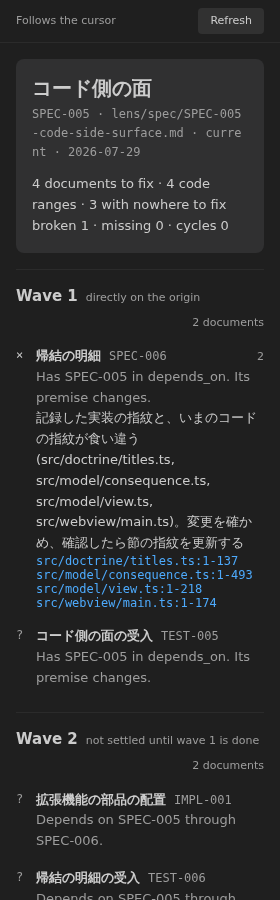
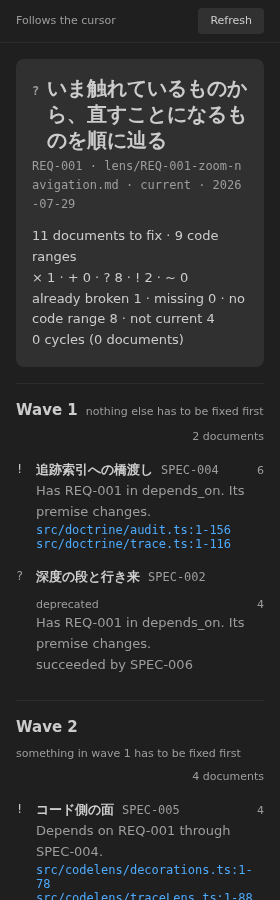
記号ごとと事実ごとが食い違う理由を、要約から脚注へ移す
非現行を足したことで要約の三行目が長くなり、280px で要約だけで六行を
占めた。数そのものが読みにくい（DESIGN.md 9-4）。

説明は脚注へ置く。「右端の数が何を数えたものか」を脚注で言うのと同じ
扱いである。そして食い違っている回だけ出す——一致している画面に置くと
説明だけが浮く（SPEC-006 制約）。

README の写真を撮り直した。7/29 のもので、CHANGE-009 で捨てた
titles.ts がまだ写っていた。要約の形も四行前の版だった。起点を
REQ-001 に取り、11 行のうち 4 行だけが deprecated と言い、要約が
「not current 4」と言う画面にした。写真が主張の証拠になっている。

潰しの道具が、始めに「何を検めているか」を言うようにした。この道具は
commit を潰すので、未コミットの変更が在れば緑は手元の版についての
緑ではない。実際そうなった——新しい五行を足して未コミットのまま回し、
「対象不明」が出るまで古い版を検めていることに気づかなかった。
由来書きには出ていたが、それでは 20 分遅い（ADR-017）。

diff --git a/src/model/view.ts b/src/model/view.ts
@@ -33,8 +33,8 @@ export interface ViewStrings {
   readonly summaryFacts: string;
   /** 現行でない行の本数。判じられた回だけ出る。`非現行 {0}` */
   readonly summaryFactNotCurrent: string;
-  /** 事実の行の末尾に付ける注記。記号の排他と数の違いを言う */
-  readonly summaryFactsNote: string;
+  /** 記号ごとの数と事実ごとの数が食い違う理由。脚注に置く */
+  readonly footHeaviest: string;
   /** `循環 {0} 本（{1} 文書）` */
   readonly summaryCycles: string;
   /** `第 {0} 波` */
@@ -254,7 +254,7 @@ export function buildView(
       ...(s.facts.notCurrent === null
         ? []
         : [fill(strings.summaryFactNotCurrent, String(s.facts.notCurrent))]),
-    ].join(" · ") + strings.summaryFactsNote,
+    ].join(" · "),
     // 循環は文書の内数ではないので、本数と文書数を分けて言う。
     fill(strings.summaryCycles, String(s.cycles), String(s.inCycle)),
   ].join("\n");
@@ -286,6 +286,19 @@ export function buildView(
   // 右端の数は説明の無い記号である。説明しないなら出してはいけない。
   if (consequence.waves.some((w) => w.rows.some((r) => r.behind > 0))) {
     footnotes.push(strings.footBehind);
+  }
+  // 記号ごとの数と事実ごとの数が食い違う理由を言う。要約の行に括弧で足すと、
+  // 280px で要約が六行になり、数そのものが読みにくくなる（DESIGN.md 9-4）。
+  // 説明は脚注へ置く。「右端の数が何か」を脚注で言うのと同じ扱いである。
+  //
+  // **実際に食い違っている回だけ出す。** 一致している画面に置くと、説明だけが浮く
+  // （SPEC-006 制約。右端の数が一つも無いときにその脚注を出さないのと同じ）。
+  if (
+    s.facts.broken !== s.bySymbol.broken ||
+    s.facts.missing !== s.bySymbol.missing ||
+    s.facts.noRange !== s.bySymbol.nowhere
+  ) {
+    footnotes.push(strings.footHeaviest);
   }
   if (context.titlesMissing) footnotes.push(strings.footNoTitles);
   footnotes.push(

diff --git a/src/l10n.ts b/src/l10n.ts
@@ -115,7 +115,7 @@ export function viewStrings(): ViewStrings {
       "{0}", "{1}", "{2}",
     ),
     summaryFactNotCurrent: t("not current {0}", "{0}"),
-    summaryFactsNote: t(" (a row shows only its heaviest symbol)"),
+
     summaryCycles: t("{0} cycles ({1} documents)", "{0}", "{1}"),
     waveHeading: t("Wave {0}", "{0}"),
     waveCount: t("{0} documents", "{0}"),
@@ -151,6 +151,9 @@ export function viewStrings(): ViewStrings {
     footAuditNever: t("Upstream docs-audit has not run yet"),
     footNoTitles: t("Some titles could not be read; those rows show the id instead"),
     footBehind: t("The number on the right of a row is how many others it settles once fixed"),
+    footHeaviest: t(
+      "A row shows only its heaviest symbol, so the per-symbol counts and the per-fact counts differ",
+    ),
     rowSucceeds: t("succeeded by {0}", "{0}"),
     cycleNote: t("{0} cycles: those documents have no wave until the cycle is broken", "{0}"),
     legendBroken: t("× broken"),

diff --git a/src/test/consequence.test.ts b/src/test/consequence.test.ts
@@ -634,7 +634,8 @@ function strings(): Parameters<typeof buildView>[2] {
     summarySymbols: "× {0} / + {1} / ? {2} / ! {3} / ~ {4}",
     summaryFacts: "壊れている {0} / 足りない {1} / 範囲無し {2}",
     summaryFactNotCurrent: "非現行 {0}",
-    summaryFactsNote: "（注記）",
+    footHeaviest: "行には最も重い記号だけが出る",
+
     summaryCycles: "循環 {0} 本（{1} 文書）",
     waveHeading: "第 {0} 波",
     waveCount: "{0} 文書",

diff --git a/README.md b/README.md
@@ -22,43 +22,57 @@ That is the **origin**. You select nothing; the screen follows the cursor.
 ```
 Follows the cursor                                                   [Refresh]
 
-  コード側の面
-  SPEC-005 · lens/spec/SPEC-005-code-side-surface.md · current · 2026-07-29
+  ? いま触れているものから、直すことになるものを順に辿る
+    REQ-001 · lens/REQ-001-zoom-navigation.md · current · 2026-07-29
 
-  4 documents to fix · 4 code ranges · 3 with nowhere to fix
-  broken 1 · missing 0 · cycles 0
+    11 documents to fix · 9 code ranges
+    × 0 · + 0 · ? 8 · ! 3 · ~ 0
+    already broken 0 · missing 0 · no code range 8 · not current 4
+    0 cycles (0 documents)
 
-  Wave 1   directly on the origin                                2 documents
-  ×  帰結の明細                       SPEC-006                              2
-     Has SPEC-005 in depends_on. Its premise changes.
-     記録した実装の指紋と、いまのコードの指紋が食い違う (src/doctrine/titles.ts,
-     src/model/consequence.ts, src/model/view.ts, src/webview/main.ts)。
-     src/doctrine/titles.ts:1-137
-     src/model/consequence.ts:1-493
-     src/model/view.ts:1-218
-     src/webview/main.ts:1-174
-  ?  コード側の面の受入               TEST-005
-     Has SPEC-005 in depends_on. Its premise changes.
+  Wave 1   nothing else has to be fixed first                    2 documents
+  !  追跡索引への橋渡し               SPEC-004                              6
+     Has REQ-001 in depends_on. Its premise changes.
+     src/doctrine/audit.ts:1-156
+     src/doctrine/trace.ts:1-116
+  ?  深度の段と行き来                 SPEC-002  deprecated                  4
+     Has REQ-001 in depends_on. Its premise changes.
+     succeeded by SPEC-006
 
-  Wave 2   not settled until wave 1 is done                      2 documents
-  ?  拡張機能の部品の配置             IMPL-001
-     Depends on SPEC-005 through SPEC-006.
-  ?  帰結の明細の受入                 TEST-006
-     Depends on SPEC-005 through SPEC-006.
+  Wave 2   something in wave 1 has to be fixed first             4 documents
+  !  コード側の面                     SPEC-005                              4
+     Depends on REQ-001 through SPEC-004.
+     src/codelens/decorations.ts:1-78
+     …
+  ?  レンズ文法                       SPEC-003  deprecated                  2
+     Depends on REQ-001 through SPEC-002.
+     succeeded by SPEC-006
+  …
 
-  40 documents are not reachable from the origin and are not listed
-  2 findings sit outside the origin
+  Wave 3   something in wave 2 has to be fixed first             3 documents
+  !  帰結の明細                       SPEC-006                              2
+     Depends on REQ-001 through SPEC-005. It also has REQ-001 directly.
+     src/model/consequence.ts:1-746
+     …
+
+  57 documents reach the origin in neither direction and are not listed
+  1 finding is outside this screen's question (it belongs to no document)
   The number on the right of a row is how many others it settles once fixed
-  Upstream docs-audit ran all checks at 2026-07-29 09:14
+  Upstream docs-audit ran 36 checks at 2026-08-02 00:00
   × broken   + missing   ? nowhere to fix   ! fix   ~ review
 ```
 
-That is this repository's own tree, captured mid-rewrite. `SPEC-006` is `×`
-because its recorded fingerprints did not yet match the code, and the `2` on its
-right says two more documents settle once it is fixed — which is why it sorts
-first. `TEST-005` is `?`: it depends on the origin, but has no code bound to it,
-so there is nowhere to make the change. Rows with nothing behind them show no
-number at all, because a number that is always zero is noise.
+That is this repository's own tree. `SPEC-004` sorts first in wave 1 because the
+`6` on its right says six more documents settle once it is fixed. `SPEC-002` is
+`?`: it depends on the origin, but has no code bound to it, so there is nowhere
+to make the change. Rows with nothing behind them show no number at all, because
+a number that is always zero is noise.
+
+Four rows say `deprecated`; the other seven say nothing about status, because
+they are current and **the default is not narrated**. The summary's `not
+current 4` is what keeps that silence honest — count the words on screen and you
+get 4. Each of those four also names its successor, so a row you should not be
+editing tells you where to go instead.
 
 ### Five symbols, strictly exclusive
 

diff --git a/doctrine_docs/lens/spec/SPEC-006-consequence-list.md b/doctrine_docs/lens/spec/SPEC-006-consequence-list.md
@@ -59,13 +59,17 @@ B が第 1 波に出る。だが B は C 経由でも起点に依存している
    ```
    直すことになる N 文書 ・ コード M か所
    × a ・ + b ・ ? c ・ ! d ・ ~ e          ← 五つの和が N に一致する
-   既に壊れている p ・ 足りない q ・ 範囲が無い r ・ 非現行 u（行には最も重い記号だけが出る）
+   既に壊れている p ・ 足りない q ・ 範囲が無い r ・ 非現行 u
    循環 s 本（t 文書）
    ```
 
    二行目は**記号ごと**、三行目は**事実ごと**である。記号は重い順に排他なので、
    `×` に負けた「足りない」は二行目の数から消える。**排他は一行にどれを出すかの
    規律であって、数の規律ではない。** 循環は文書の内数ではないので四行目に分ける。
+
+   **なぜ二行目と三行目が食い違うのかは、脚注で言う。** 要約の行に括弧で足すと、
+   280px で要約が六行になり、数そのものが読みにくくなる（`DESIGN.md` 9-4）。
+   **食い違っている回だけ出す**——一致している画面に置くと説明だけが浮く。
 
    `u`（非現行）は記号を争わない。記号は五つとも上流の別の事実から出ており、
    status はそのどれでもない。**この数は、行から消した語を支えるために在る**（ADR-021）。
@@ -83,6 +87,7 @@ B が第 1 波に出る。だが B は C 経由でも起点に依存している
    帰結にも前提にも繋がらない M 文書は出していない
    起点に繋がらない P 文書に所見が付いている（開けば起点になる）: REQ-001 · TEST-002
    この画面の問いに属さない所見が K 件（どの文書にも紐づかない）
+   行には最も重い記号だけが出るので、記号ごとの数と事実ごとの数は食い違う
    ```
 
    **数を出したら行き先も出す。行き先が無いなら、無いと言う**（ADR-019）。
@@ -241,11 +246,12 @@ doctrine プラグインの `trace-index.py` で取り直す。
 
 23. どの status を現行と呼ぶかを実装が持たない。上流の登録簿が返した集合と突き合わせる。
 24. 要約の「非現行 u」が、status の出ている行の本数に一致する。
+    記号ごとと事実ごとが食い違う回だけ、その理由が脚注に出る。一致する回は出ない。
 25. 登録簿が取れない回に、全行に status が出る。「非現行 u」は出ない
     （現行だと決めつけて隠さない）。
 26. 上流から取っておいて実装のどこからも使わない値が、登録簿の写しに残っていない。
 
 - sha256:17f05db843bf677eb5a8e2b2ac2e18244d7c1fc3a372737800fc91a0082a1aac
-- sha256:195ad6833d7c1d20cf8d2a33563f8efb016082e45b7345f2d2b8d2daeeaf27e6
 - sha256:2db61eff26e67648837707bd9659f0401401b17ba759726a1035c40654343912
 - sha256:61b61785706b134ed05f43acc029f47afc6b32ef61329cae511d2652afb8aa8f
+- sha256:730b041bd2f419fb53d626e24212d25267700c739591ac087dda6f3610a75772
